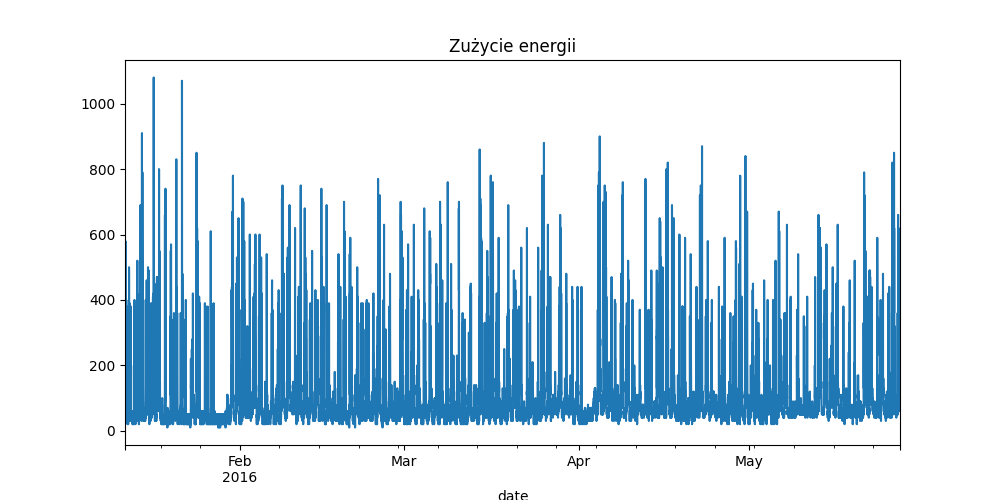
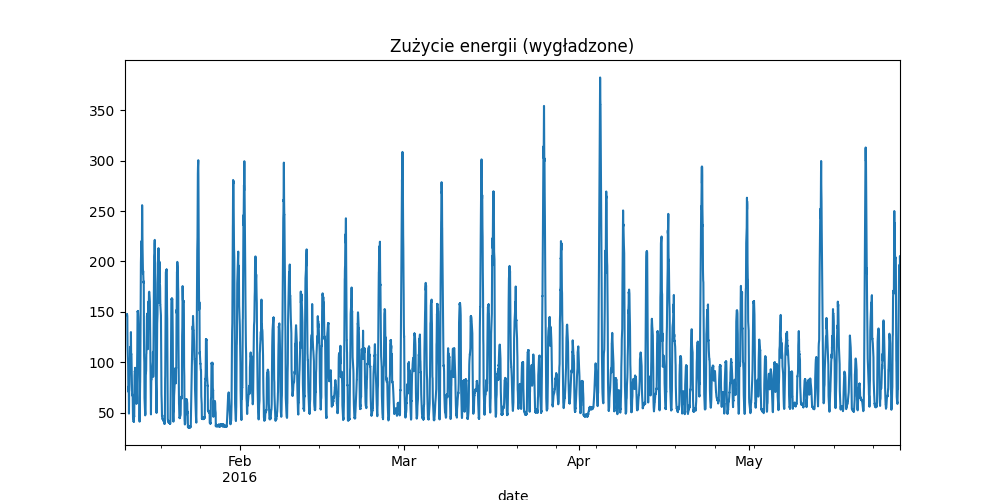
poprawiono wykresy - usunięto szum

diff --git a/student/mod2/plots.py b/student/mod2/plots.py
@@ -9,13 +9,14 @@ df["date"] = pd.to_datetime(df["date"])
 df.set_index("date", inplace=True)
 
 # wykres energii
-df["Appliances"].plot(figsize=(10,5))
-plt.title("Zużycie energii")
+df["Appliances"].rolling(window=50).mean().plot(figsize=(10,5))
+plt.title("Zużycie energii (wygładzone)")
 plt.savefig("energy.png")
 plt.close()
 
 # temperatura
-df["T1"].plot()
+df["T1"].rolling(window=50).mean().plot()
+plt.title("Temperatura (wygładzona)")
 plt.savefig("temp.png")
 plt.close()
 
